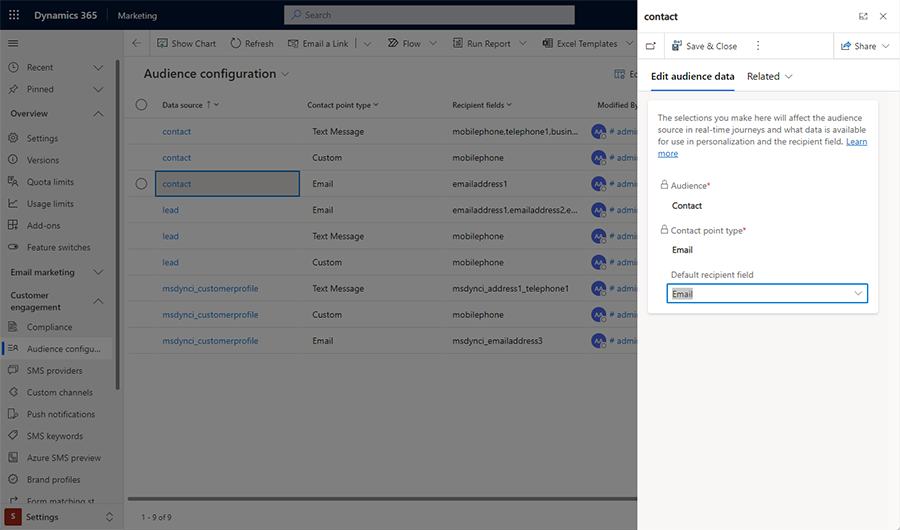
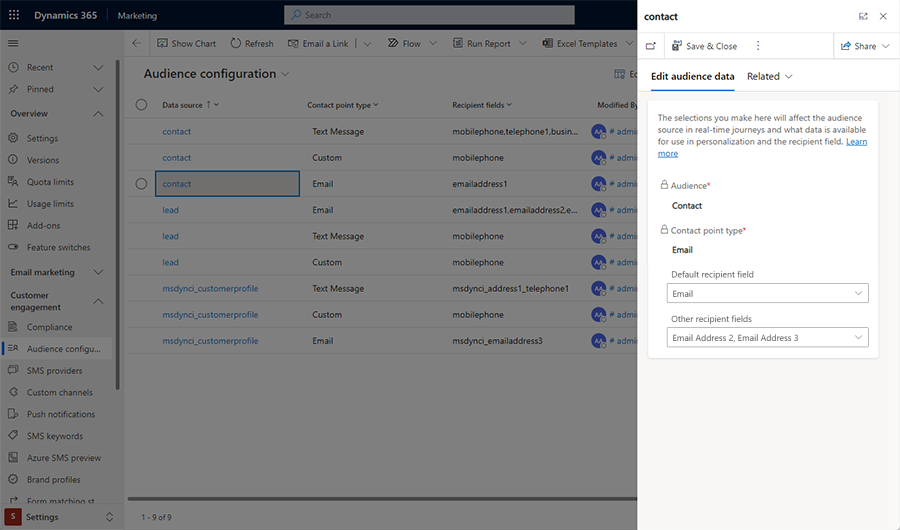
Adding changes for multiple email address support for contact entity
We will be introducing the capability to add multiple email addresses, in audience configuration, for the contact entity in the feb release. This PR includes changes to the docs/images that we need for that.

Changed region(s): [[0.7156, 0.5132, 0.9644, 0.6642]]

diff --git a/ci-docs/journeys/real-time-marketing-audience-data.md b/ci-docs/journeys/real-time-marketing-audience-data.md
@@ -38,6 +38,6 @@ You can change the default recipient or add more recipient fields. You can selec
 A default value is displayed in the *Send-to* field, but you can select any other recipient field from the dropdown menu.
 
 > [!Important]
-> For contacts, only one recipient email address can be used. This is done to remove consent ambiguity. In outbound marketing, a contact record may store several email addresses with one consent for the entire contact. But in Customer Insights - Journeys, consent is given per each email address. Learn more in [Compliance settings](real-time-marketing-compliance-settings.md).
+> Starting from the February 2024 release, it will be possible to configure multiple email addresses for a contact's email channel. However, for any release version before February 2024, you will only be able to select a single email address for a contact's email channel configuration.
 
 [!INCLUDE [footer-include](./includes/footer-banner.md)]
